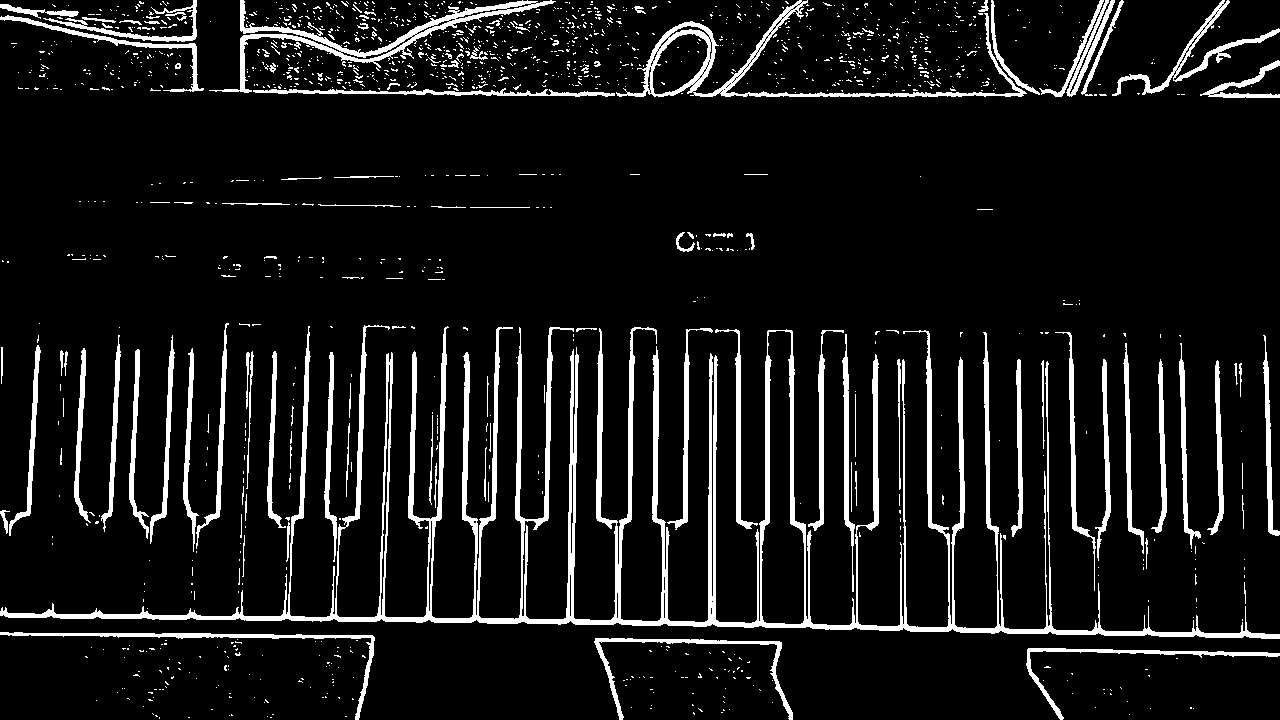
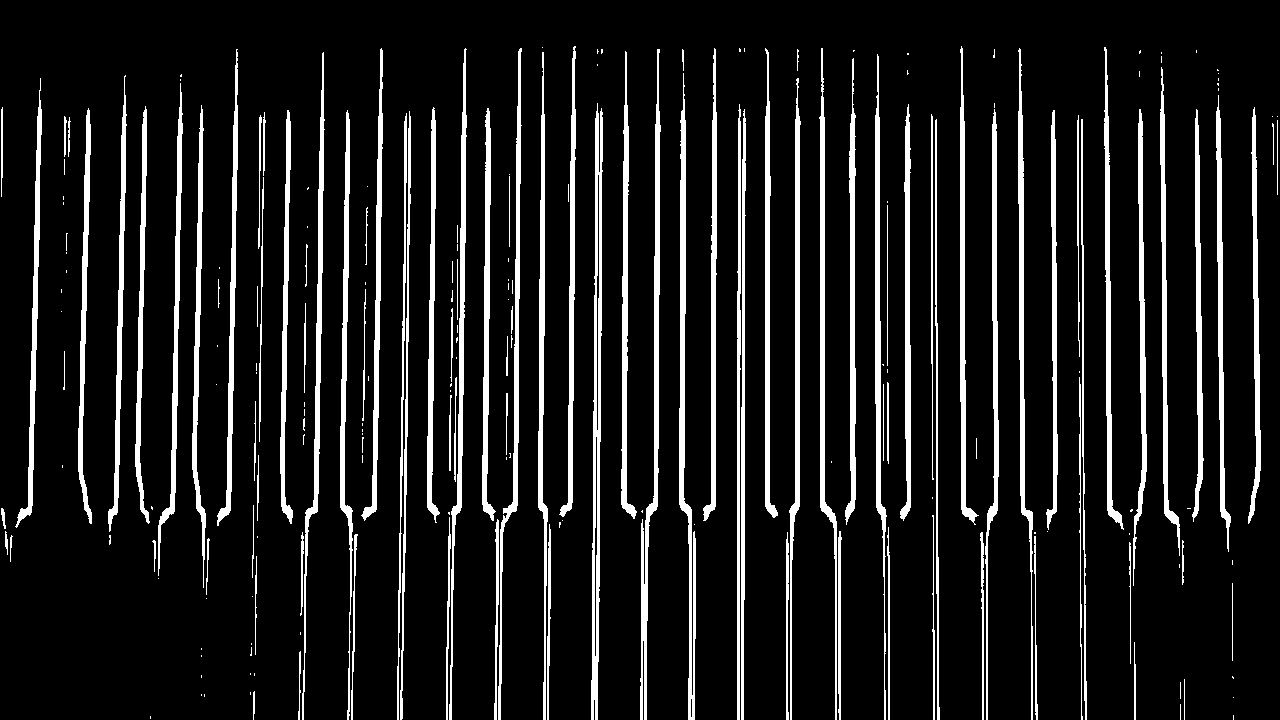
Successfull rectified image when given 4 points.

Changed region(s): [[0.0, 0.0, 1.0, 1.0], [0.0, 0.7028, 0.0312, 0.7639], [0.7188, 0.9778, 0.75, 1.0]]

diff --git a/preprocess.py b/preprocess.py
@@ -15,26 +15,21 @@ def parse_video(video):
 	return
 
 
-'''def rectify(img): #original base_img (img2 of size: 1280x720)
+#Takes in an image of a piano, asks for the 4 corner points, and returns the rectified and cropped image, with consistent ratios of size of black to white keys
+def rectify(img): #original base_img (img2 example is of size: 1280x720)
     #how to make a GUI to show first image and let user click corners:
     size = img.shape
     print size
     pts_src = np.array([[0,303],[0,599],[1243,315],[1243,618]]) #in x,y
     pts_dst = np.array([[0,0],[0,size[0]],[size[1],0],[size[1],size[0]]]) #in x,y
     h, status = cv2.findHomography(pts_src, pts_dst)
-    return rectified
-    #how to make a GUI to show first image and let user click corners
-    #make both sides be the entire height of the image. 
-    #may be distorted, but ratios will be the same
-    #image rectification with heavy perspective will have a blurry part (more error in parts farther away)
-    #find camera intrinsic parameters
-    #cvFindFundamentalMatrix()
-'''
+    img_rectified = cv2.warpPerspective(img, h, (size[1], size[0]))
+    cv2.imwrite("video_2-0001_rectified.jpg", img_rectified)
+    return img_rectified 
 
 
-def getLines(img): #img is the base_image without hands in it
-    base_img = cv2.imread(img) #a static variable above main
-    base_img = base_img.astype(np.uint8)
+
+def getLines(base_img): #img is the base_image without hands in it
     img_sobel = sobel(base_img)
 
     cv2.imwrite("video_2-0001_sobel.jpg", img_sobel)
@@ -43,7 +38,7 @@ def getLines(img): #img is the base_image without hands in it
     cv2.imwrite("video_2-0001_binary.jpg", img_binary)
     key_lines = hough(img_binary)
     #right now, best lines is all lines returned by Hough
-    return base_img, key_lines
+    return key_lines
 
 
 #from https://github.com/abidrahmank/OpenCV2-Python/blob/master/Official_Tutorial_Python_Codes/3_imgproc/sobel.py
@@ -64,6 +59,7 @@ def sobel(img):
 	abs_grad_y = cv2.convertScaleAbs(grad_y)
 	dst = cv2.addWeighted(abs_grad_x,0.5,abs_grad_y,0.5,0)
 	return dst
+
 
 #http://opencv-python-tutroals.readthedocs.io/en/latest/py_tutorials/py_imgproc/py_houghlines/py_houghlines.html
 def hough(img): #img is a binarized image

diff --git a/main.py b/main.py
@@ -35,10 +35,11 @@ if __name__ == '__main__':
     
 
     #kernel = np.ones((5,5),np.uint8) #for dilation/erosion to fill in gaps, used for masking
-    base_img = os.path.join(images_dir,base_img_name)
-    #base_img_rectified = preprocess.rectify(base_img)
+    base_img = base_img = cv2.imread(os.path.join(images_dir,base_img_name)) #a static variable above main
+    base_img = base_img.astype(np.uint8)
+    base_img_rectified = preprocess.rectify(base_img)
     #get the sobel of just the baseline image (no hands) to get lines between keys from Hough transform (Right now, key_lines is all lines returned by Hough)
-    base_img, key_lines = preprocess.getLines(base_img) #will use base_img_rectified once i finish rectify
+    key_lines = preprocess.getLines(base_img_rectified) #will use base_img_rectified once i finish rectify
 
 
  	
